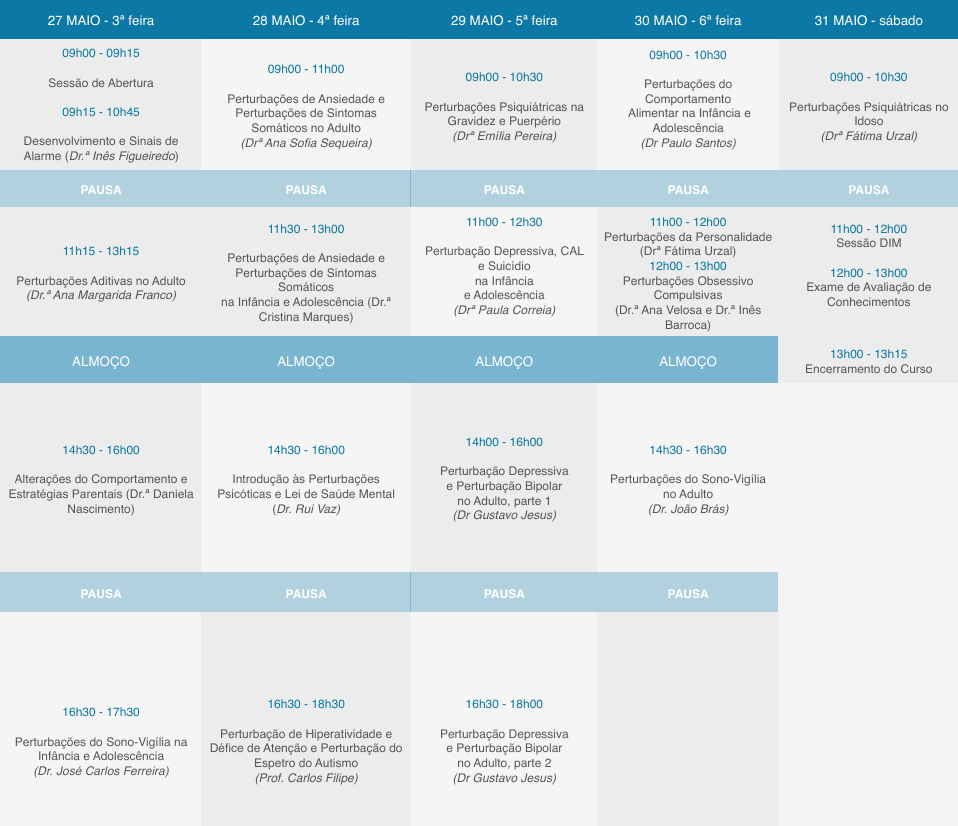
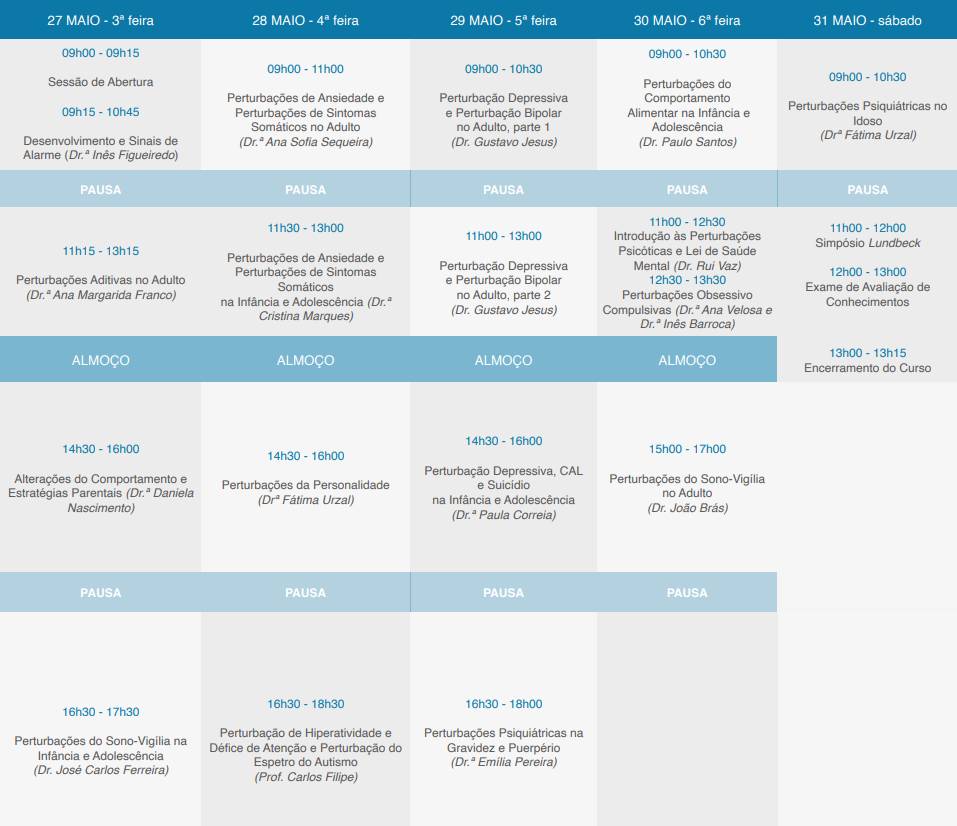
Novo programa + apoios

diff --git a/index.html b/index.html
@@ -155,7 +155,7 @@
       <div class="w-100">
         <h2 class="mb-5">Programa</h2>
         <img src="./img/programa.png" alt="Imagem do Programa"/>
-        <br><span><a href="https://drive.usercontent.google.com/u/0/uc?id=1WjidT3Ao1jcANM1IIzUzZwvDLTO_oKvR&export=download">Download do Programa em formato PDF</a></span>
+        <br><span><a href="https://drive.usercontent.google.com/u/2/uc?id=1sUYmeZ4m7TiiwBZN_2Z2NXfQRmV5hqkn&export=download">Download do Programa em formato PDF</a></span>
         
       <!-- <div>
           <br><h3>Formadores</h3>
@@ -241,21 +241,22 @@
         <br>
         <br>
          -->
-        <!--
+        
         <h3>Patrocinador Principal</h3>
+        <br>
+        <div>
+          <img src="./img/apoios/lundbeck.svg.png" alt="Logo Lundbeck"/><br>
+        </div>
+        <br>
+        <br>
+        <h3>Outros Patrocinadores</h3>
         <br>
         <div>
           <img src="./img/apoios/Neuraxpharm.png" alt="Logo Neuraxpharm"/><br>
         </div>
         <br>
         <br>
-        <h3>Patrocinadores</h3>
-        <br>
-        <div>
-          <img src="./img/apoios/tecnifar.png" alt="Logo Tecnifar"/>
-        </div>
-        <br>
-        <br>
+        <!--
         <br>
         <div>          
           <img src="./img/apoios/azevedos.png" alt="Logo Azevedos"/><br>
